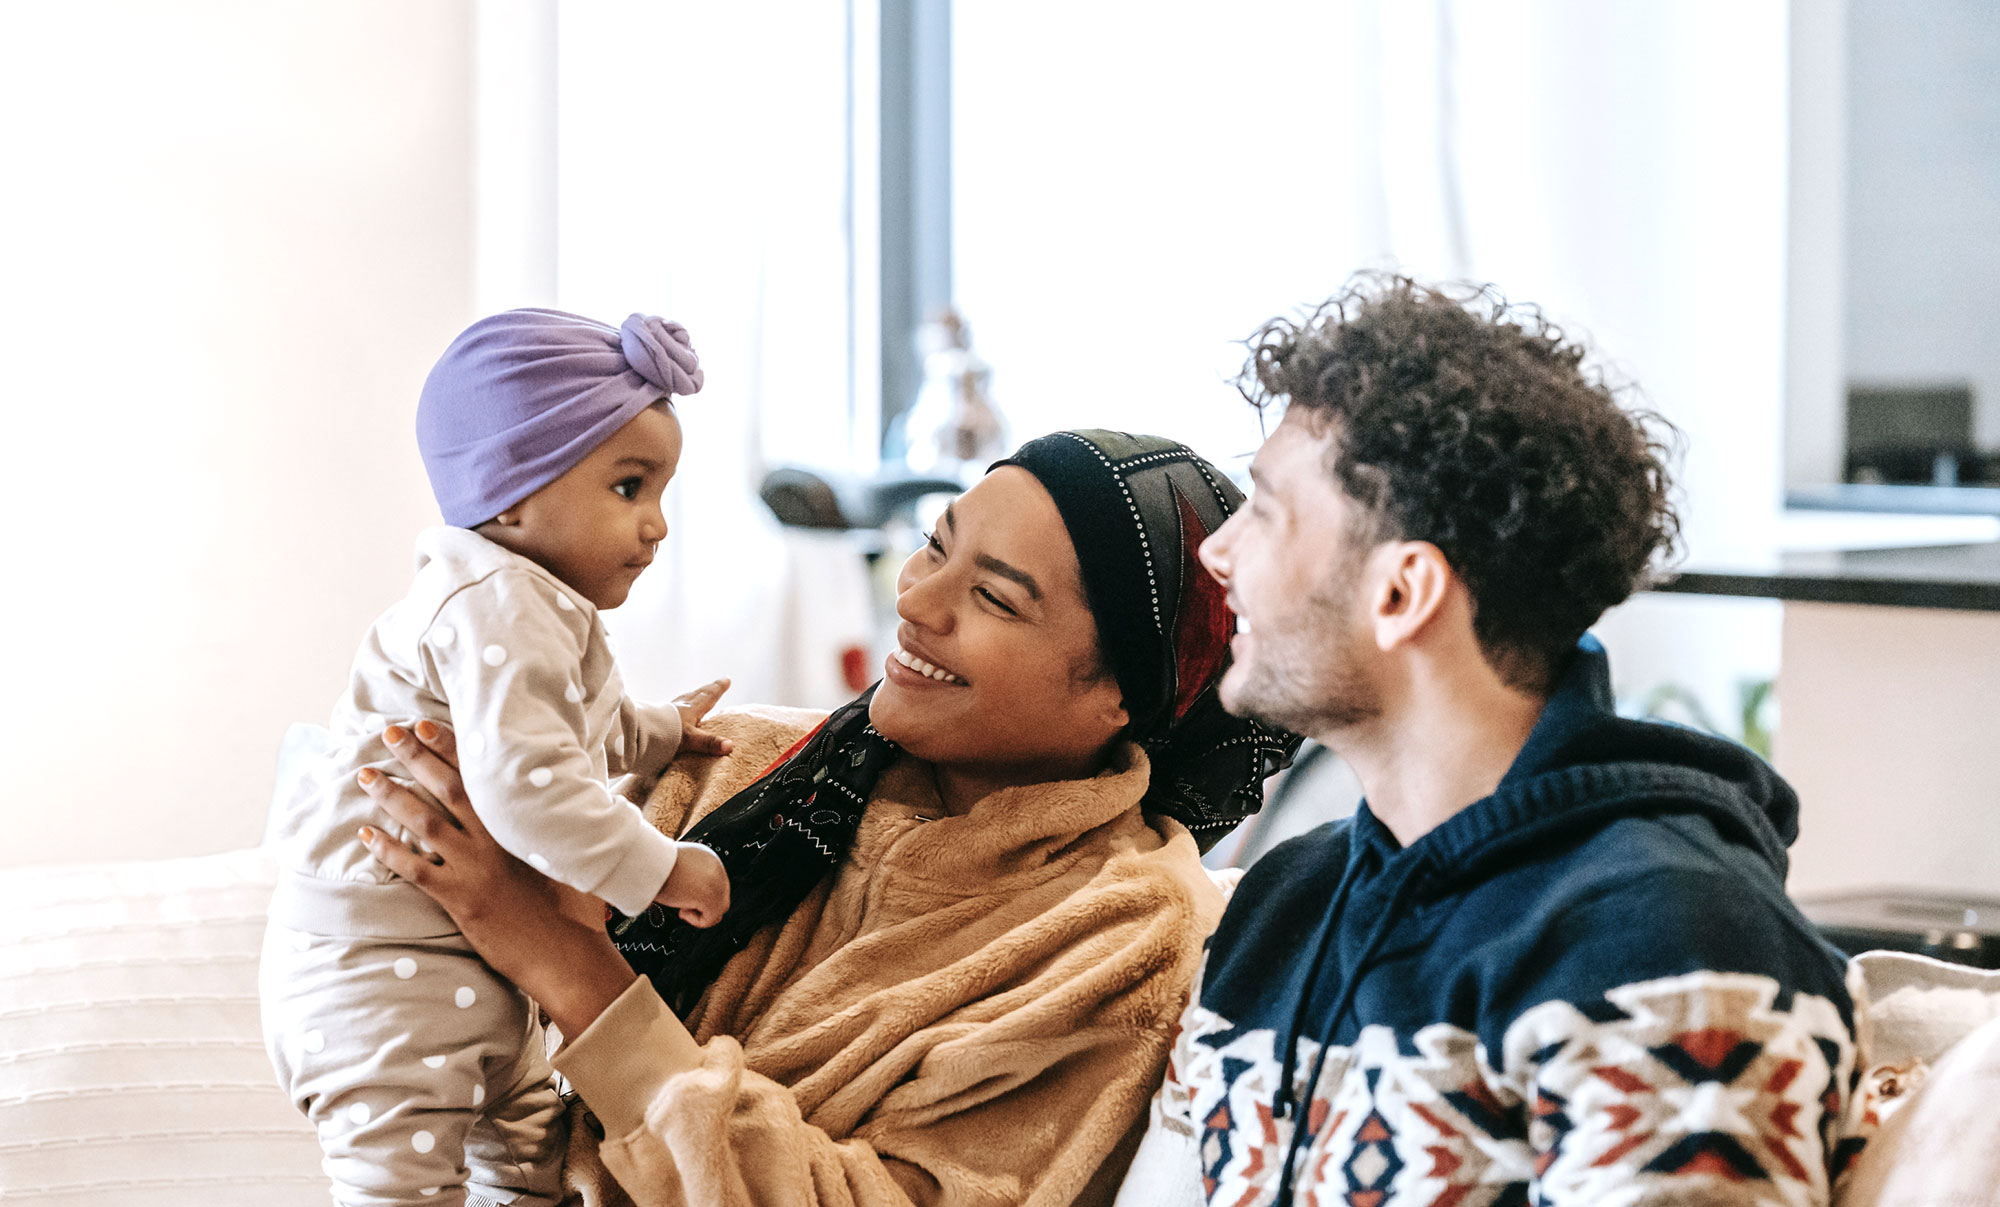
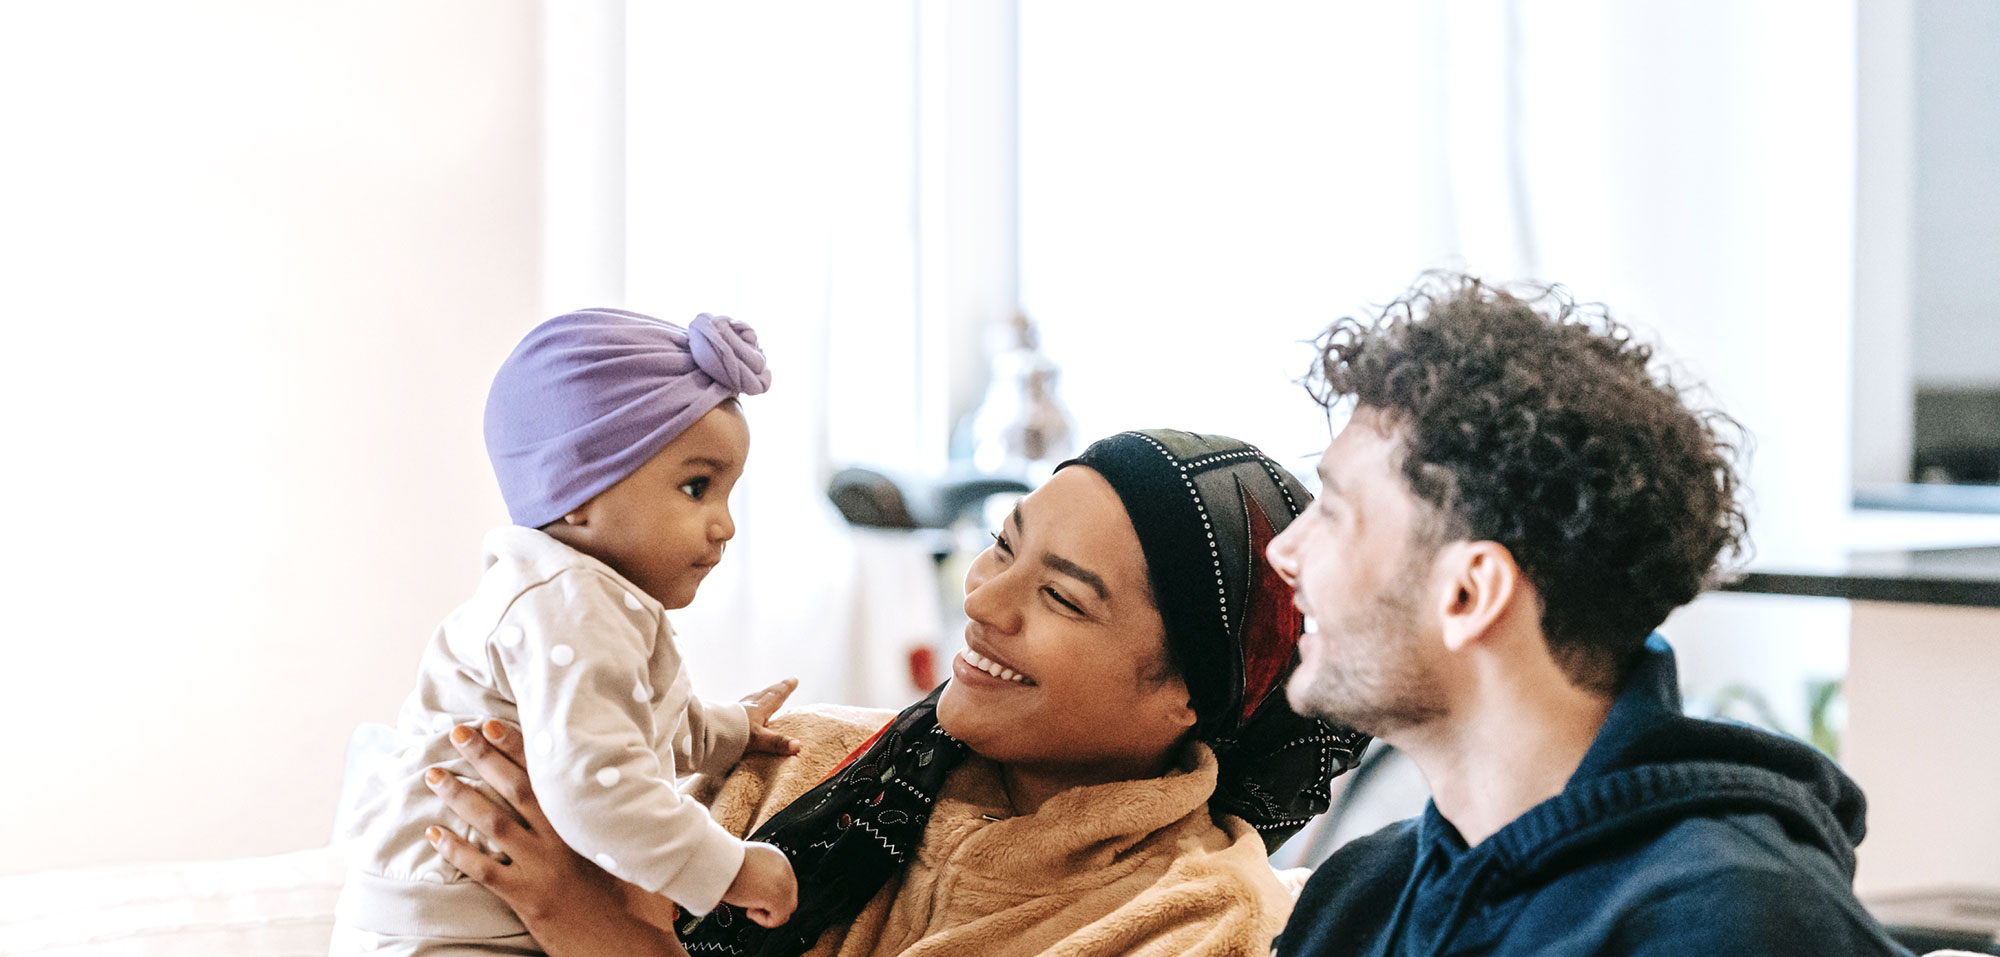
tweaked contact image

diff --git a/styles/base.css b/styles/base.css
@@ -128,7 +128,7 @@ p {
 /* contact jumbotron */
 
 .jumbotron-contact {
-  background: url(../images/contact-hero-new-5.jpg) no-repeat center center;
+  background: url(../images/contact-hero-new-4.jpg) no-repeat center center;
   -webkit-background-size: cover;
   -moz-background-size: cover;
   background-size: cover;
